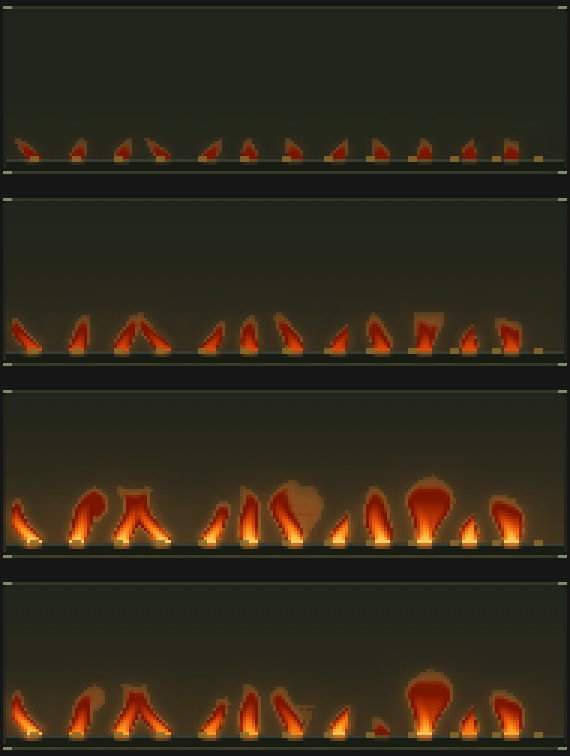
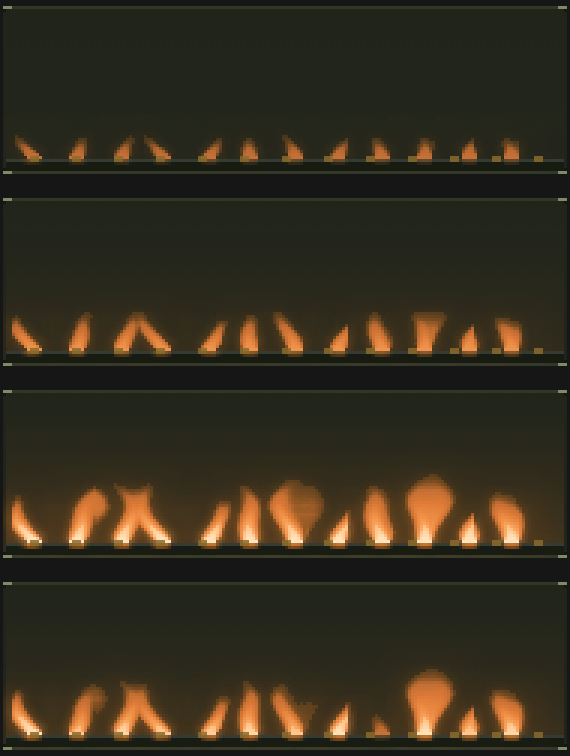
feat(flame): ghostly - faintness from alpha, not from a dark colour
Feedback: "they need to be softer, they're too dark red... I want it more
ghostly". The two halves of that turn out to be the same mistake.

The ramp's cool end was #7a1500, a very dark red, so the flame got its faintness
from being DARK. Dark is heavy. A gas flame is a luminous volume you can see
through, and dimness and insubstantiality are not the same property - so
faintness now comes from ALPHA and the ramp is free to stay pale the whole way
up. The dark end is gone entirely; the coolest stop is a soft orange.

The body is translucent throughout, 0.34 at its coolest visible heat rising to
0.80 at its hottest, and never 1.0. The core is 0.88 rather than opaque too: a
fully opaque core punches a hole in the glow behind it, and the glow is most of
what makes this read as light rather than as a shape.

The distinction from the watercolour version three passes back matters and is
easy to lose, so it is written next to the constants: THAT was soft edges plus a
wide low-alpha fringe. THIS is a translucent body with the edge still tight. The
softness lives in the alpha, not in the falloff - the two alphas are now
computed separately and multiplied, one for the edge and one for the body, so
they cannot be confused again.

Also committed `flame-actual-size.png`, a 1x render, because the 3x previews
exaggerate everything and it is not fair to ask for a judgement on a
magnification of a 190x60 overlay.

2.0ms a frame, unchanged and still level with segmented. 539 tests pass. The
[…]

diff --git a/docs/review/index.html b/docs/review/index.html
@@ -100,7 +100,17 @@ Regenerate any of these with <code>cargo test --release dump_flourishes -- --ign
   <figure><img src="flame-prototype.png" alt="flame organ prototype">
   <figcaption>rows: quiet &middot; normal &middot; loud &middot; a comb (alternating loud and quiet band
   groups), which is the row that shows whether the per-band reading is legible</figcaption></figure>
-  <p class="judge"><strong>What I want your eyes on:</strong> this is the <em>warmth</em> pass on top of
+  <p class="judge"><strong>What I want your eyes on:</strong> this is the <em>ghostly</em> pass. Faintness
+  now comes from ALPHA, not from a dark colour: the body is translucent throughout (0.34 rising to 0.80
+  with heat) and the ramp stays pale the whole way up, with the dark red at the cool end gone entirely. It
+  read as heavy and solid because a dark maroon <em>is</em> heavy - dimness and insubstantiality are not
+  the same thing.<br><br>
+  The distinction from the watercolour version three passes back is worth keeping hold of, because it is
+  easy to lose: that was soft EDGES plus a wide low-alpha fringe. This is a translucent BODY with the edge
+  still tight. Softness in the alpha, not in the falloff.<br><br>
+  <strong>Second file:</strong> <code>flame-actual-size.png</code> is 1x, which is what appears on the
+  taskbar. The 3x view here exaggerates everything.<br><br>
+  Earlier: the <em>warmth</em> pass on top of
   the <em>less watercolour</em> one. Warmth comes from a fire lighting its surroundings, not from softening
   its own edges, so it is three separate cues: a two-stage spill (a bright halo close in, a faint one
   reaching much further), the manifold lit per-column by the plume standing on it, and an ember wash on the

diff --git a/src/render/flame.rs b/src/render/flame.rs
@@ -115,8 +115,25 @@ const LICK: f32 = 0.95;
 /// Neither extreme is what a flame looks like. A real edge is continuous but NARROW, so this is a
 /// smoothstep over `EDGE` of heat - about two pixels of falloff at this cooling rate. Continuous enough
 /// to be smooth, tight enough not to be a wash.
-const FLOOR: f32 = 0.13;
-const EDGE: f32 = 0.085;
+const FLOOR: f32 = 0.11;
+const EDGE: f32 = 0.10;
+
+/// Opacity of the flame body, from its coolest visible heat to its hottest.
+///
+/// NEVER 1.0, and that is the difference between "a flame" and "a ghostly flame". A gas flame is a
+/// luminous volume you can see through, not a solid shape - so faintness comes from ALPHA here, and the
+/// ramp is free to stay pale. The previous version made faintness come from COLOUR instead, with a very
+/// dark red at the cool end, which read as heavy and solid rather than insubstantial.
+///
+/// The distinction from the watercolour version two passes ago matters and is easy to lose: that was soft
+/// EDGES plus a wide low-alpha fringe. This is a translucent BODY with the edge still tight. Softness in
+/// the alpha, not in the falloff.
+const BODY_ALPHA_LOW: f32 = 0.34;
+const BODY_ALPHA_HIGH: f32 = 0.80;
+
+/// Opacity of the core. Also short of 1.0, for the same reason - a fully opaque core is a hole punched in
+/// the glow behind it, and the glow is most of what makes this read as light.
+const CORE_ALPHA: f32 = 0.88;
 
 /// Heat at or above which a cell is treated as the flame's core, and blooms.
 ///
@@ -472,15 +489,25 @@ impl Family for Flame {
                 // needs nothing new in the schema. The builder is shared with that family rather than
                 // copied, for the reason the two onset detectors were merged.
                 let col = super::waterfall::ramp_at(&ramp, v.clamp(0.0, 1.0));
-                // Smoothstep alpha over a narrow band, so the edge is anti-aliased rather than either
-                // banded or washed. See `EDGE`.
+                // Two alphas multiplied, and they do different jobs. The smoothstep is the EDGE - a tight
+                // anti-aliased boundary over `EDGE` of heat. The body term is the TRANSLUCENCY, rising
+                // with heat across the whole range so the flame is a luminous volume rather than a solid
+                // shape. See `BODY_ALPHA_LOW`.
                 let e = ((v - FLOOR) / EDGE).clamp(0.0, 1.0);
-                let a = e * e * (3.0 - 2.0 * e);
+                let edge = e * e * (3.0 - 2.0 * e);
+                let body = BODY_ALPHA_LOW + (BODY_ALPHA_HIGH - BODY_ALPHA_LOW) * v.clamp(0.0, 1.0);
+                let a = edge * body;
                 if v >= CORE_HEAT {
                     // The core goes on the bloomed layer, so the hottest part of the flame is what throws
                     // light. Held at the ramp's top rather than a flat `hot`, so a colourway whose stops
                     // run to white gets white and one running to pale blue gets that.
-                    core.fill_rect(ix + x, iy + y, 1, 1, Rgba::new(col.r, col.g, col.b, 255));
+                    core.fill_rect(
+                        ix + x,
+                        iy + y,
+                        1,
+                        1,
+                        Rgba::new(col.r, col.g, col.b, (CORE_ALPHA * 255.0) as u8),
+                    );
                 } else {
                     c.fill_rect(
                         ix + x,
@@ -633,12 +660,14 @@ mod tests {
         // cool tips through orange and yellow to white at the base, which is the luminance progression a
         // real flame has and the thing the posterised version could not express.
         let mut t = builtin::tube_soviet();
+        // NO DARK END. The previous ramp started at #7a1500, a very dark red, and read as heavy and
+        // solid; faintness now comes from the body alpha instead, which leaves the ramp free to stay pale
+        // the whole way up. That is what makes it ghostly rather than merely dim.
         t.zones = vec![
-            crate::themes::Zone { upto: 0.28, lit: "#7a1500".into(), hot: "#7a1500".into() },
-            crate::themes::Zone { upto: 0.52, lit: "#e04a06".into(), hot: "#e04a06".into() },
-            crate::themes::Zone { upto: 0.74, lit: "#ff9a1f".into(), hot: "#ff9a1f".into() },
-            crate::themes::Zone { upto: 0.90, lit: "#ffd76a".into(), hot: "#ffd76a".into() },
-            crate::themes::Zone { upto: 1.00, lit: "#fff6e0".into(), hot: "#fff6e0".into() },
+            crate::themes::Zone { upto: 0.30, lit: "#ff8a4a".into(), hot: "#ff8a4a".into() },
+            crate::themes::Zone { upto: 0.55, lit: "#ffb070".into(), hot: "#ffb070".into() },
+            crate::themes::Zone { upto: 0.78, lit: "#ffd9a8".into(), hot: "#ffd9a8".into() },
+            crate::themes::Zone { upto: 1.00, lit: "#fff6ea".into(), hot: "#fff6ea".into() },
         ];
         let (w, h) = (190i32, 60i32);
         let mut rows = Vec::new();
